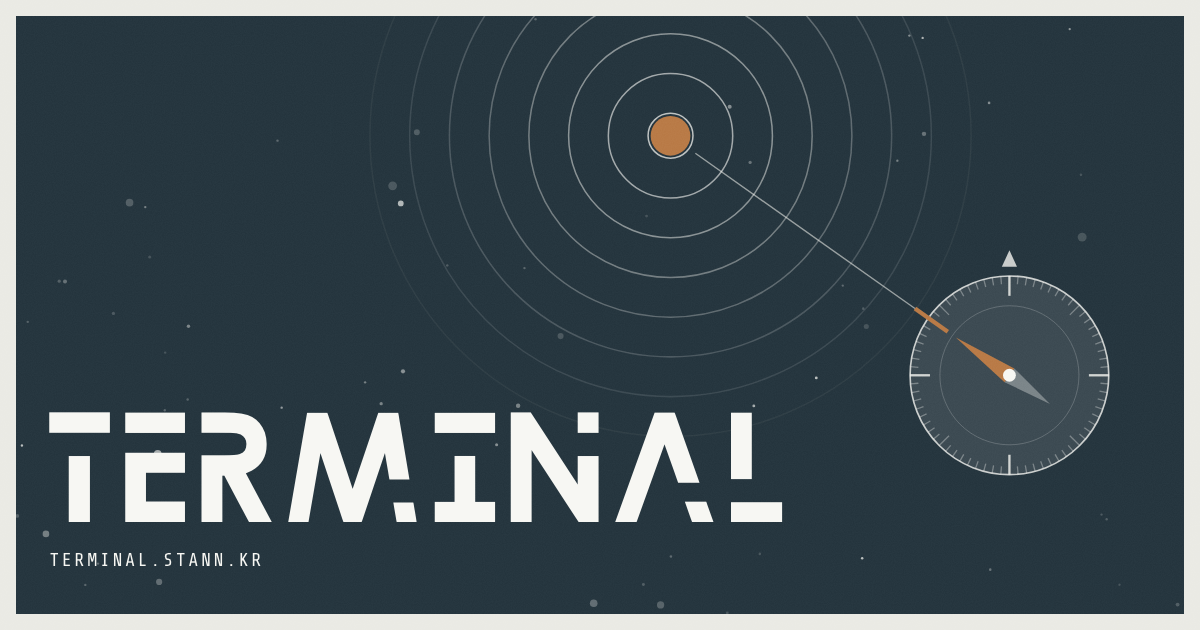
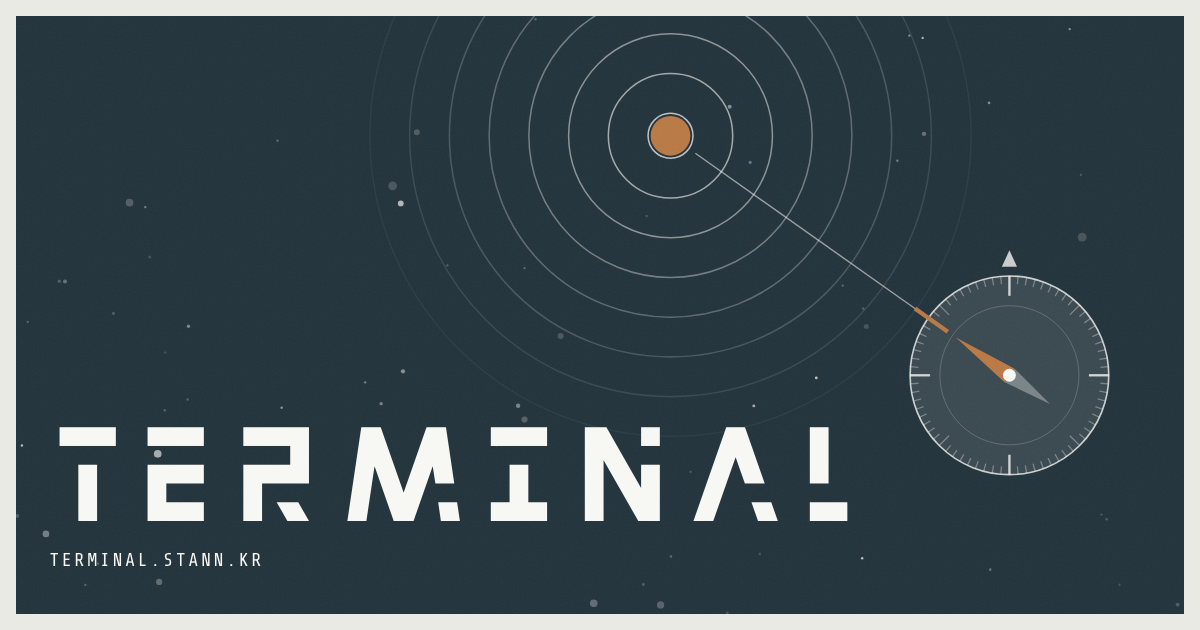
feat: TERMINAL 워드마크 글꼴을 Pixie에서 커닝이 들어 있는 레터링 글꼴로 바꾸고 공유 이미지를 다시 뽑음

Changed region(s): [[0.0308, 0.6333, 0.7092, 0.8444]]

diff --git a/app/globals.css b/app/globals.css
@@ -5,7 +5,8 @@
 @font-face { font-family: 'Barlow Condensed'; src: url('/fonts/instrument/BarlowCondensed-Medium.woff2') format('woff2'); font-weight: 400 500; font-display: block; }
 @font-face { font-family: 'Barlow Condensed'; src: url('/fonts/instrument/BarlowCondensed-SemiBold.woff2') format('woff2'); font-weight: 600; font-display: block; }
 @font-face { font-family: 'Barlow Condensed'; src: url('/fonts/instrument/BarlowCondensed-Bold.woff2') format('woff2'); font-weight: 700 800; font-display: block; }
-@font-face { font-family: 'ProcrastinatingPixie'; src: url('/fonts/ProcrastinatingPixie-WyVOO.ttf') format('truetype'); font-weight: 400 800; font-display: block; }
+/* TERMINAL Lettering: the wordmark's own letters (T E R M I N A L, lowercase maps to them) with its spacing built in as kerning; one weight, declared across 400–800 so no bold is faked. */
+@font-face { font-family: 'TERMINAL Lettering'; src: url('/fonts/TERMINAL-Lettering.woff2') format('woff2'); font-weight: 400 800; font-display: block; }
 @font-face { font-family: 'Share Tech Mono'; src: url('/fonts/instrument/ShareTechMono-Regular.woff2') format('woff2'); font-weight: 400 700; font-display: swap; }
 /*
  * Hypnotic console: plates on a workspace field, a few loud solid plates among them. Concentric rings
@@ -27,7 +28,7 @@
   --sans: 'Barlow', 'Apple SD Gothic Neo', 'Noto Sans KR', 'Malgun Gothic', sans-serif;
   --mono: 'Share Tech Mono', 'Apple SD Gothic Neo', 'Noto Sans KR', monospace;
   /* The word TERMINAL is always set in the brand face. */
-  --brand: 'ProcrastinatingPixie', 'Barlow Condensed', sans-serif;
+  --brand: 'TERMINAL Lettering', 'Barlow Condensed', sans-serif;
 
   /* Seven fluid type steps, 1280px → 1920px. Nothing on screen is smaller than --t-xs. */
   --t-xs: clamp(12px, .78vw, 14px);   /* chips, meta labels, codes */

diff --git a/promo/poster.js b/promo/poster.js
@@ -403,7 +403,7 @@ function share() {
 /* ── Layout passes ──────────────────────────────────────────────────────────────────────────── */
 async function fontsReady() {
   await Promise.all(
-    ['400 100px ProcrastinatingPixie', '700 100px "Barlow Condensed"', '800 100px "Barlow Condensed"', '400 100px "Share Tech Mono"'].map(font => document.fonts.load(font).catch(() => null)),
+    ['400 100px "TERMINAL Lettering"', '700 100px "Barlow Condensed"', '800 100px "Barlow Condensed"', '400 100px "Share Tech Mono"'].map(font => document.fonts.load(font).catch(() => null)),
   );
   await document.fonts.ready;
 }

diff --git a/promo/poster.css b/promo/poster.css
@@ -90,7 +90,7 @@ html[data-format=a2] .grain { --grain-scale: 1.5; }
 /* ── Type ───────────────────────────────────────────────────────────────── */
 .wordmark {
   font: 400 5.6cqw/.82 var(--brand);
-  letter-spacing: .01em;
+  letter-spacing: 0;
   white-space: nowrap;
 }
 .mono {
@@ -242,7 +242,7 @@ html[data-format=a2] .grain { --grain-scale: 1.5; }
   font-family: var(--brand);
   font-weight: 400;
   line-height: .82;
-  letter-spacing: .01em;
+  letter-spacing: 0;
 }
 .shareSite {
   margin-left: auto;

diff --git a/app/layout.tsx b/app/layout.tsx
@@ -17,7 +17,7 @@ export const metadata: Metadata = {
 };
 /** The faces the first screen is set in (app/globals.css), fetched with the document so they are in before it paints. */
 const FONTS = [
-  ['/fonts/ProcrastinatingPixie-WyVOO.ttf', 'font/ttf'],
+  ['/fonts/TERMINAL-Lettering.woff2', 'font/woff2'],
   ...['BarlowCondensed-Medium', 'BarlowCondensed-SemiBold', 'BarlowCondensed-Bold', 'Barlow-Regular', 'Barlow-Medium', 'ShareTechMono-Regular']
     .map(name => [`/fonts/instrument/${name}.woff2`, 'font/woff2']),
 ] as const;

diff --git a/tailwind.config.js b/tailwind.config.js
@@ -7,7 +7,7 @@ module.exports = {
         label: 'var(--os-tracking)', // 0.14em — STANN OS 모노 라벨 자간
       },
       fontFamily: {
-        'pixie': ['ProcrastinatingPixie', 'monospace'],
+        'lettering': ['TERMINAL Lettering', 'monospace'],
         'orbit': ['Orbit', 'monospace'],
         // 모노 = 라벨/메타 글루 (STANN OS — JetBrains Mono). 타이틀은 font-orbit으로 핀
         'mono': ['var(--font-jetbrains)', 'JetBrains Mono', 'monospace'],

diff --git a/features/stage/FitTitle.tsx b/features/stage/FitTitle.tsx
@@ -5,7 +5,7 @@ import styles from './stage.module.css';
 
 /** The word BrandText sets in the brand face, and that face's letter spacing (ui.module.css `.brandWord`). */
 const BRAND_WORD = 'TERMINAL';
-const BRAND_SPACING_EM = 0.02;
+const BRAND_SPACING_EM = 0;
 
 /**
  * A title set as large as its box allows: the CSS size is the ceiling, and pretext finds the

diff --git a/features/ui/ui.module.css b/features/ui/ui.module.css
@@ -122,7 +122,9 @@
 .brandWord {
   font-family: var(--brand);
   font-weight: 400;
-  letter-spacing: .02em;
+  /* The face spaces its own letters (kerning); no tracking on top. */
+  letter-spacing: 0;
+  font-kerning: normal;
   text-transform: none;
 }
 

diff --git a/docs/TECH_SPEC.md b/docs/TECH_SPEC.md
@@ -16,7 +16,7 @@ Next.js App Router / React / TypeScript / TanStack Query, Cloudflare OpenNext와
 - `lib/events`, `lib/gate`, `lib/signal`, `lib/transmit`: 서버 domain과 repository. 이벤트 수명(시작·끝·공연표 슬롯 시각)은 `lib/events/lifecycle.ts`가 소유합니다.
 - `lib/api`: 요청 본문 검증, 시도 제한(`abuseControl.ts`), PII 없는 로그, no-store 응답
 
-스타일과 판별 전용 표현은 각 capability의 CSS Module이 소유하고, `app/globals.css`는 token·font·reset·`data-surface` 색 plate만 포함합니다. 색 값은 `app/palettes.css`의 팔레트 블록에만 있습니다. 화면이 바뀌면 무대가 새 판·상세 판의 제목(h1)으로 focus를 옮기고, 무대 밖 페이지는 Shell이 `main`으로 옮깁니다. 모션 감소·고대비·save-data·숨겨진 탭 조건에서 `useDisplayPolicy`가 Shell에 `data-display-paused`를 붙이고 전역 CSS가 애니메이션·전환을 제거합니다. 조회·전송 표식은 실제 query·요청 상태에 연결합니다. 글꼴은 `public/fonts/instrument`의 Barlow·Barlow Condensed·Share Tech Mono(OFL, Latin 서브셋)와 TERMINAL 단어 전용 ProcrastinatingPixie이며 한글은 시스템 산세리프로 표시합니다. STANN OS 공용 원본 token과 patch verifier는 별도로 유지합니다.
+스타일과 판별 전용 표현은 각 capability의 CSS Module이 소유하고, `app/globals.css`는 token·font·reset·`data-surface` 색 plate만 포함합니다. 색 값은 `app/palettes.css`의 팔레트 블록에만 있습니다. 화면이 바뀌면 무대가 새 판·상세 판의 제목(h1)으로 focus를 옮기고, 무대 밖 페이지는 Shell이 `main`으로 옮깁니다. 모션 감소·고대비·save-data·숨겨진 탭 조건에서 `useDisplayPolicy`가 Shell에 `data-display-paused`를 붙이고 전역 CSS가 애니메이션·전환을 제거합니다. 조회·전송 표식은 실제 query·요청 상태에 연결합니다. 글꼴은 `public/fonts/instrument`의 Barlow·Barlow Condensed·Share Tech Mono(OFL, Latin 서브셋)와 TERMINAL 단어 전용 레터링 글꼴 TERMINAL Lettering(woff2, 커닝 내장)이며 한글은 시스템 산세리프로 표시합니다. STANN OS 공용 원본 token과 patch verifier는 별도로 유지합니다.
 
 ## 공개 API
 

diff --git a/docs/DESIGN.md b/docs/DESIGN.md
@@ -14,7 +14,7 @@
 
 ## 글꼴과 크기
 
-- "TERMINAL"이라는 단어는 어디서든 `ProcrastinatingPixie`(`public/fonts`)로 씁니다(`BrandText`). 워드마크도 이미지 없이 같은 글꼴의 텍스트 "TERMINAL"이며 판의 글자색으로 찍힙니다.
+- "TERMINAL"이라는 단어는 어디서든 레터링 글꼴 `TERMINAL Lettering`(`public/fonts/TERMINAL-Lettering.woff2`)으로 씁니다(`BrandText`). 글꼴에는 T E R M I N A L 여덟 글자만 그려져 있고(소문자도 같은 글자), 글자 사이 간격은 글꼴 안의 커닝이 맡아 워드마크 SVG와 같은 모양으로 그려지므로 자간을 더하지 않습니다(`letter-spacing: 0`). 워드마크도 이미지 없이 같은 글꼴의 텍스트 "TERMINAL"이며 판의 글자색으로 찍힙니다.
 - 표제·라벨·버튼은 `Barlow Condensed` 600–800 대문자, 본문은 `Barlow`, 숫자·코드는 `Share Tech Mono`(OFL, Latin woff2). 한글은 시스템 산세리프입니다.
 - 크기는 1280→1920px에 따라 커지는 7단계입니다: `--t-xs` 12–14px(칩·메타) · `--t-sm` 14–16 · `--t-md` 16–18(본문·값) · `--t-lg` 19–24(셀 이름·버튼) · `--t-xl` 26–38(판 표제·행 제목) · `--t-2xl` 36–60(카운터·큰 숫자) · `--t-3xl` 56–124(대표 세션명). 12px 미만 글자는 쓰지 않습니다. 여백 `--pad`와 간격 `--gap`도 화면 폭에 따라 커집니다.
 
